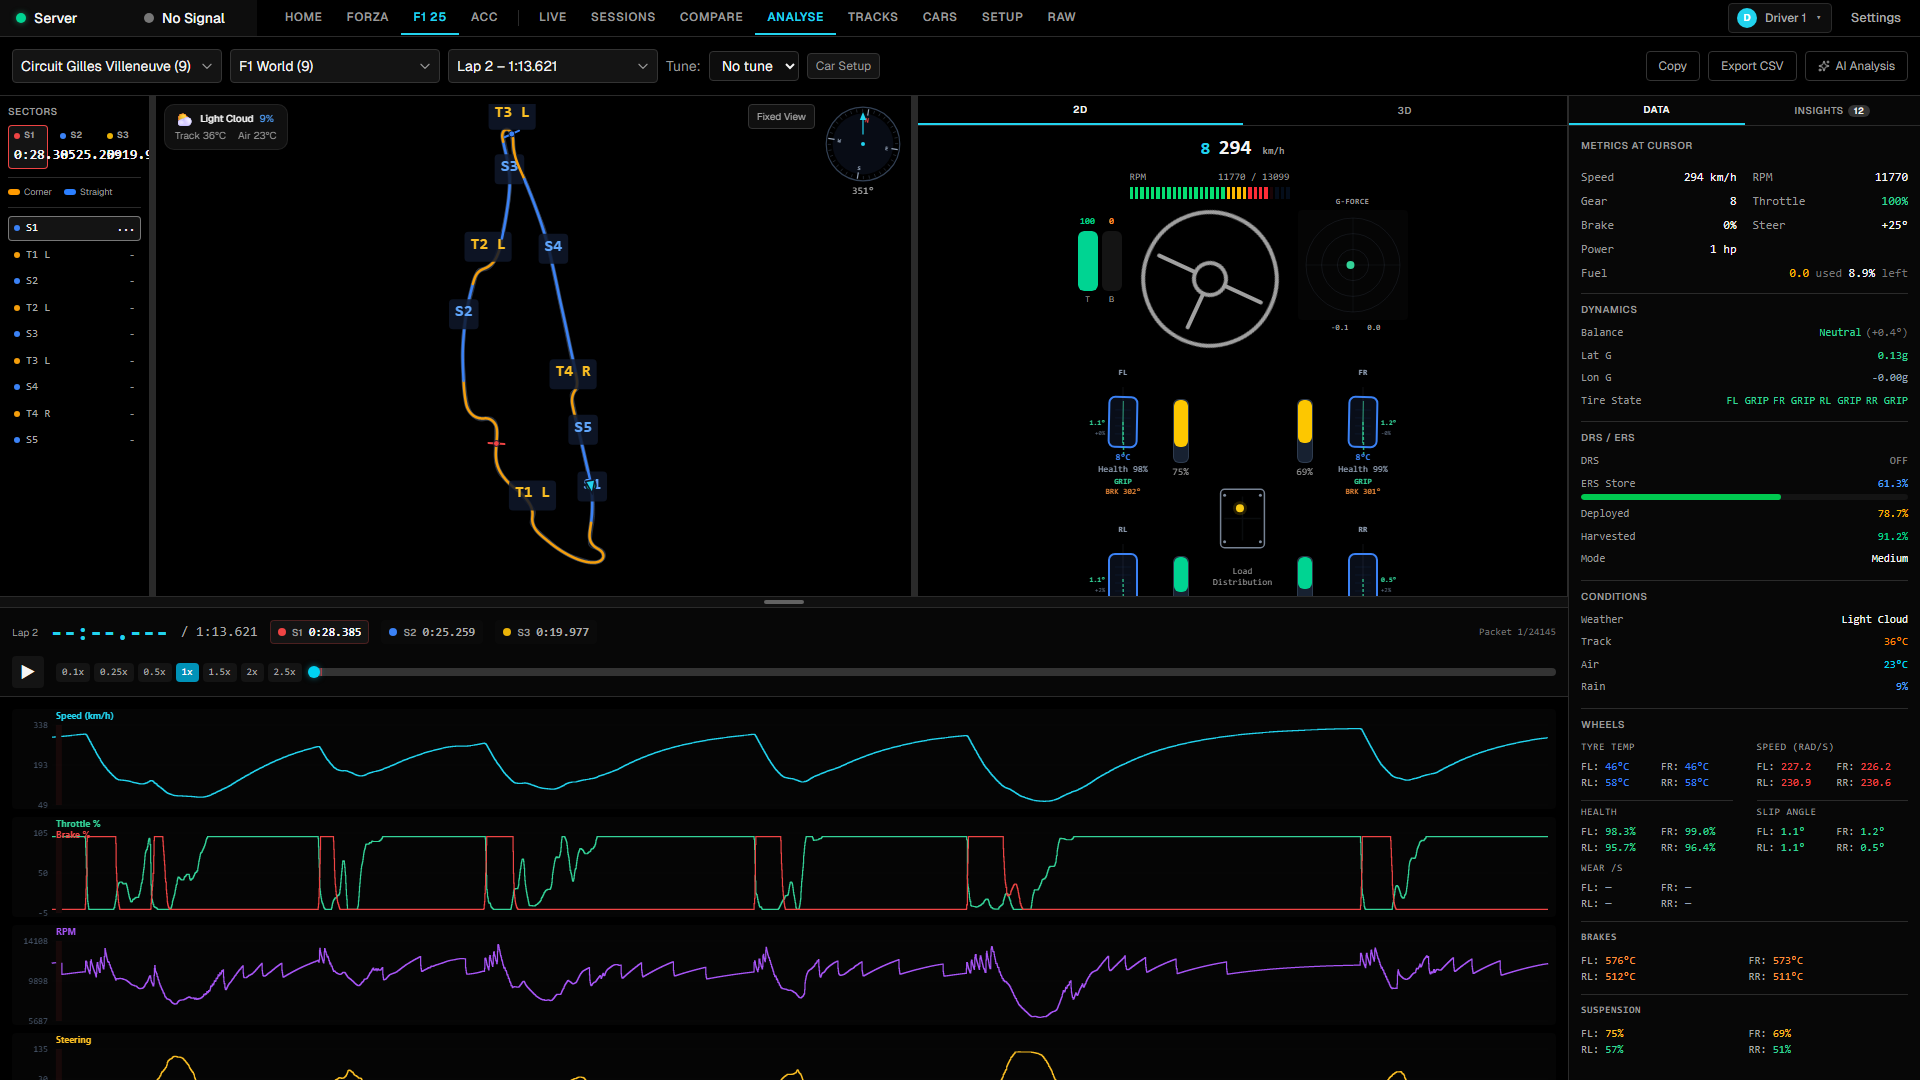
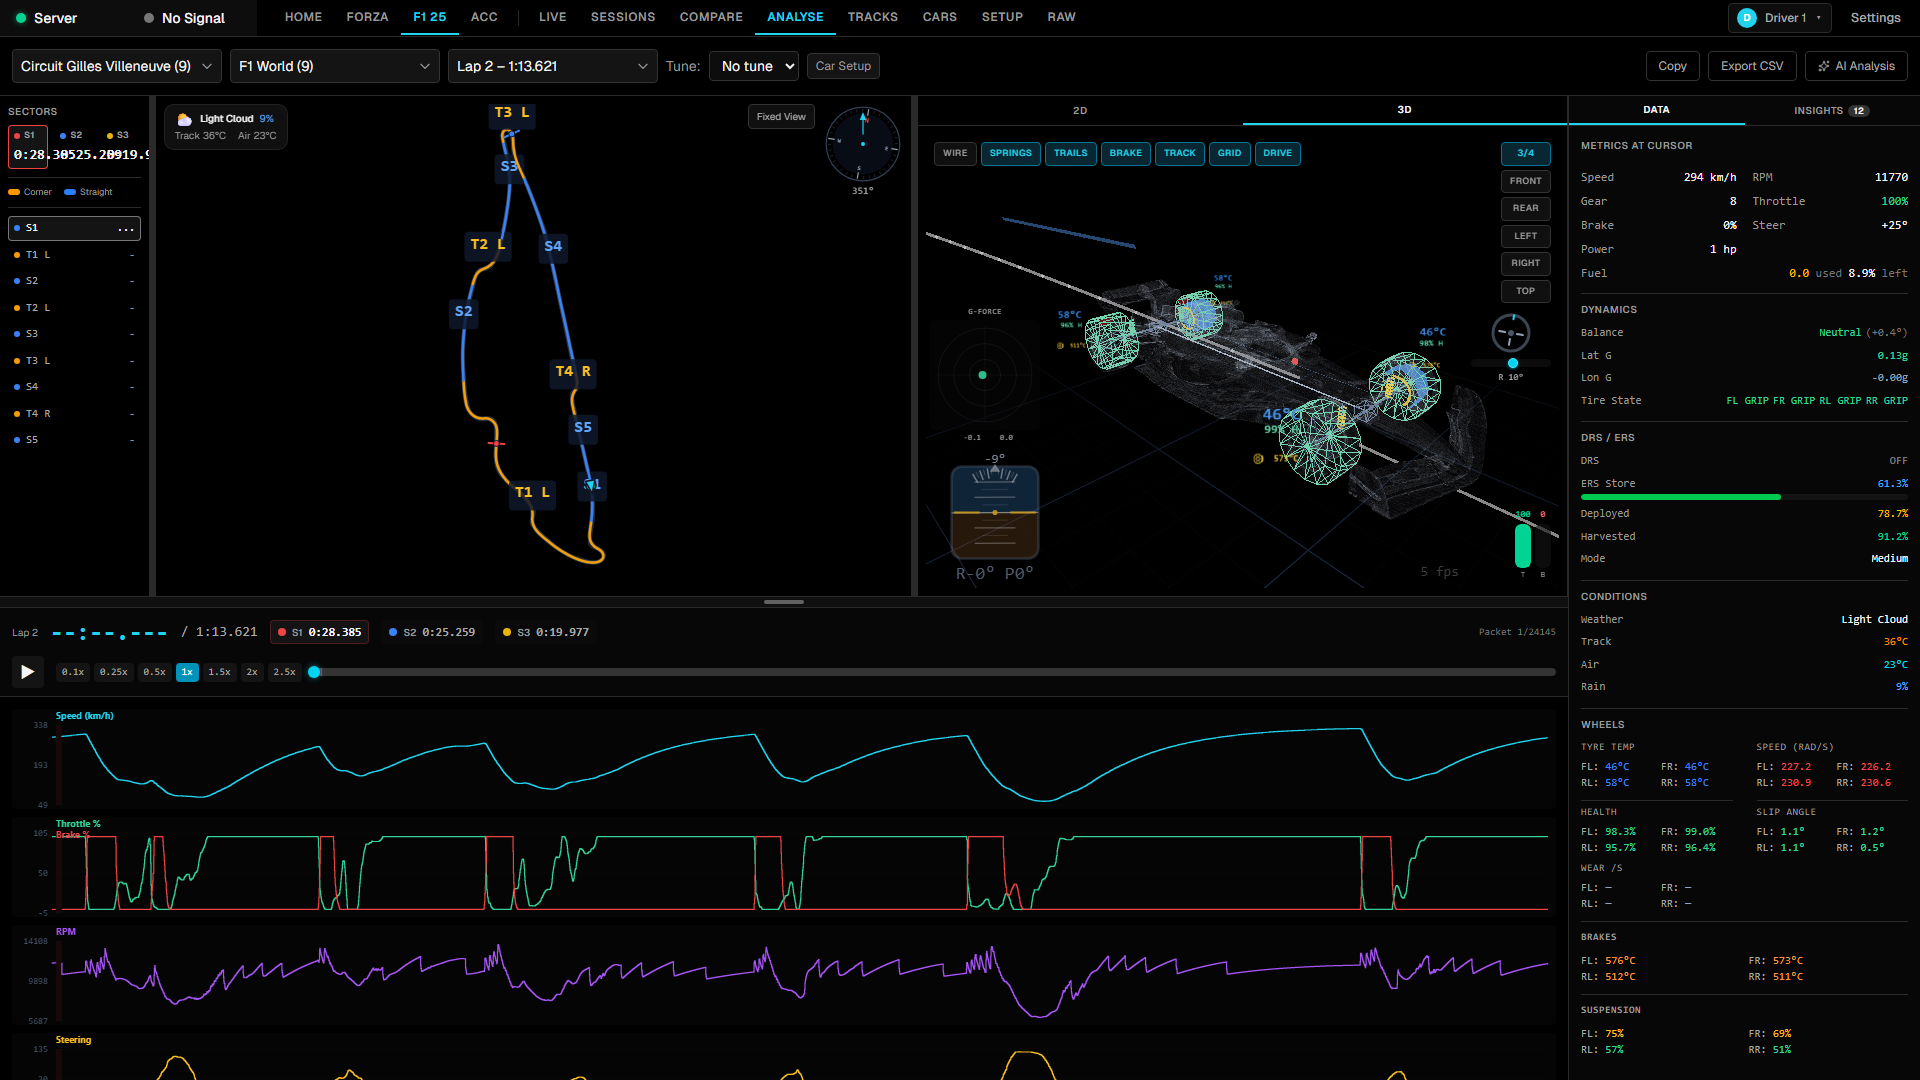
feat: add ?viz= param to analyse route, rename vizMode to 2d/3d
Renamed internal vizMode values from "render"/"visual" to "2d"/"3d"
to match the tab labels. Added ?viz=2d|3d URL param that overrides
the cookie on mount.

diff --git a/client/src/components/LapAnalyse.tsx b/client/src/components/LapAnalyse.tsx
@@ -92,7 +92,17 @@ export function LapAnalyse() {
   // null = use cursorIdx's time fraction, number = override position
   const [visualTimeFrac, setVisualTimeFrac] = useState<number | null>(null);
   const [sidebarTab, setSidebarTab] = useState<"live" | "insights">("live");
-  const [vizMode, setWheelTab] = useCookieState<"render" | "visual">("analyse-vizMode", "render");
+  const vizParam = (search as any).viz as string | undefined;
+  const [vizMode, setWheelTab] = useCookieState<"2d" | "3d">("analyse-vizMode", "2d");
+  // URL ?viz= param overrides cookie on mount
+  const appliedVizParam = useRef(false);
+  useEffect(() => {
+    if (appliedVizParam.current) return;
+    if (vizParam === "3d" || vizParam === "2d") {
+      setWheelTab(vizParam);
+      appliedVizParam.current = true;
+    }
+  }, [vizParam]);
   const [leftColWidth, setLeftColWidth] = useCookieState("analyse-leftCol", 150);
   const [rightColWidth, setRightColWidth] = useCookieState("analyse-rightCol", 650);
   const [playing, setPlaying] = useState(false);
@@ -760,9 +770,9 @@ export function LapAnalyse() {
               {/* Wheel panel tabs */}
               <div className="flex w-full border-b border-app-border shrink-0">
                 <button
-                  onClick={() => setWheelTab("render")}
+                  onClick={() => setWheelTab("2d")}
                   className={`flex-1 py-1.5 text-[10px] uppercase tracking-wider font-semibold transition-colors ${
-                    vizMode === "render"
+                    vizMode === "2d"
                       ? "text-app-text border-b-2 border-app-accent"
                       : "text-app-text-muted hover:text-app-text"
                   }`}
@@ -770,9 +780,9 @@ export function LapAnalyse() {
                   2D
                 </button>
                 <button
-                  onClick={() => setWheelTab("visual")}
+                  onClick={() => setWheelTab("3d")}
                   className={`flex-1 py-1.5 text-[10px] uppercase tracking-wider font-semibold transition-colors ${
-                    vizMode === "visual"
+                    vizMode === "3d"
                       ? "text-app-text border-b-2 border-app-accent"
                       : "text-app-text-muted hover:text-app-text"
                   }`}
@@ -782,7 +792,7 @@ export function LapAnalyse() {
               </div>
 
               <div className="p-2 flex flex-col items-center gap-2 w-full flex-1 min-h-0">
-              {vizMode === "render" ? (
+              {vizMode === "2d" ? (
                 <>
                   {currentPacket && (
                     <div className="flex items-center justify-center gap-2">

diff --git a/screenshots/marketing.spec.ts b/screenshots/marketing.spec.ts
@@ -2,7 +2,7 @@ import { test } from "@playwright/test";
 
 const PAGES = [
   { name: "home", path: "/" },
-  { name: "lap-analytics", path: "/f125/analyse?track=6&car=41&lap=257&cursor=500" },
+  { name: "lap-analytics", path: "/f125/analyse?track=6&car=41&lap=257&cursor=500&viz=3d" },
   { name: "compare", path: "/f125/compare?track=6&carA=41&lapA=258&carB=41&lapB=260", hover: ".u-over" },
   { name: "tracks", path: "/f125/tracks" },
   { name: "car-catalogue-f125-grid", path: "/f125/cars" },

diff --git a/client/src/routes/f125/analyse.tsx b/client/src/routes/f125/analyse.tsx
@@ -6,6 +6,7 @@ type AnalyseSearch = {
   car?: number;
   lap?: number;
   cursor?: number;
+  viz?: string;
 };
 
 export const Route = createFileRoute("/f125/analyse")({
@@ -19,5 +20,6 @@ export const Route = createFileRoute("/f125/analyse")({
     car: search.car ? Number(search.car) : undefined,
     lap: search.lap ? Number(search.lap) : undefined,
     cursor: search.cursor ? Number(search.cursor) : undefined,
+    viz: typeof search.viz === "string" ? search.viz : undefined,
   }),
 });
